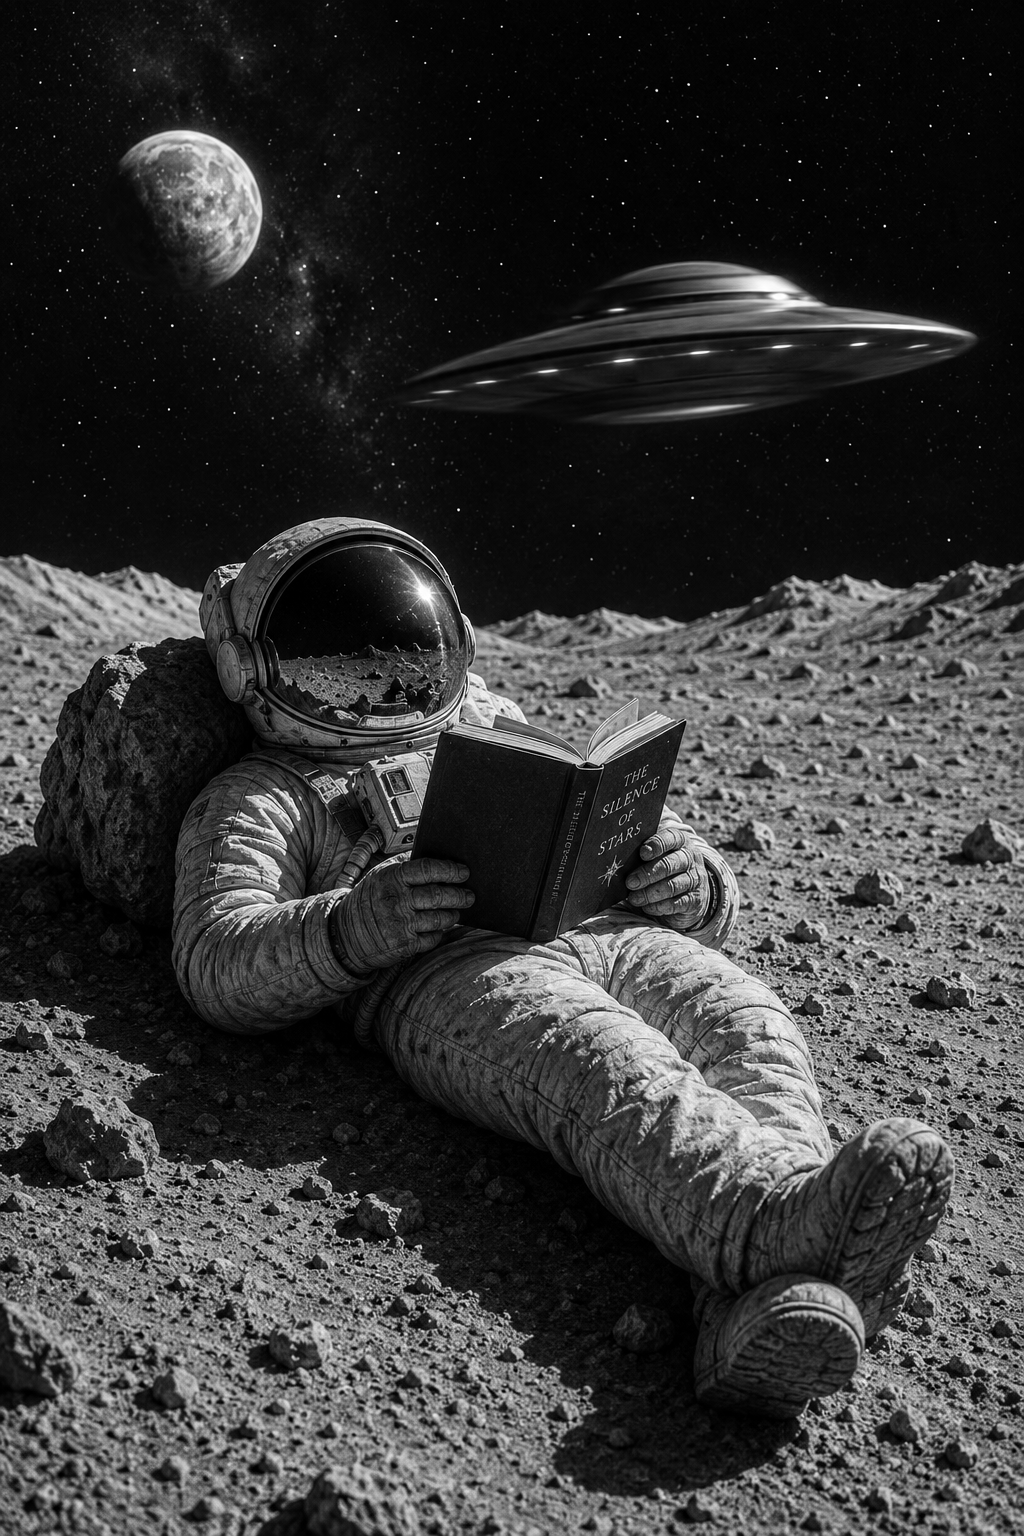
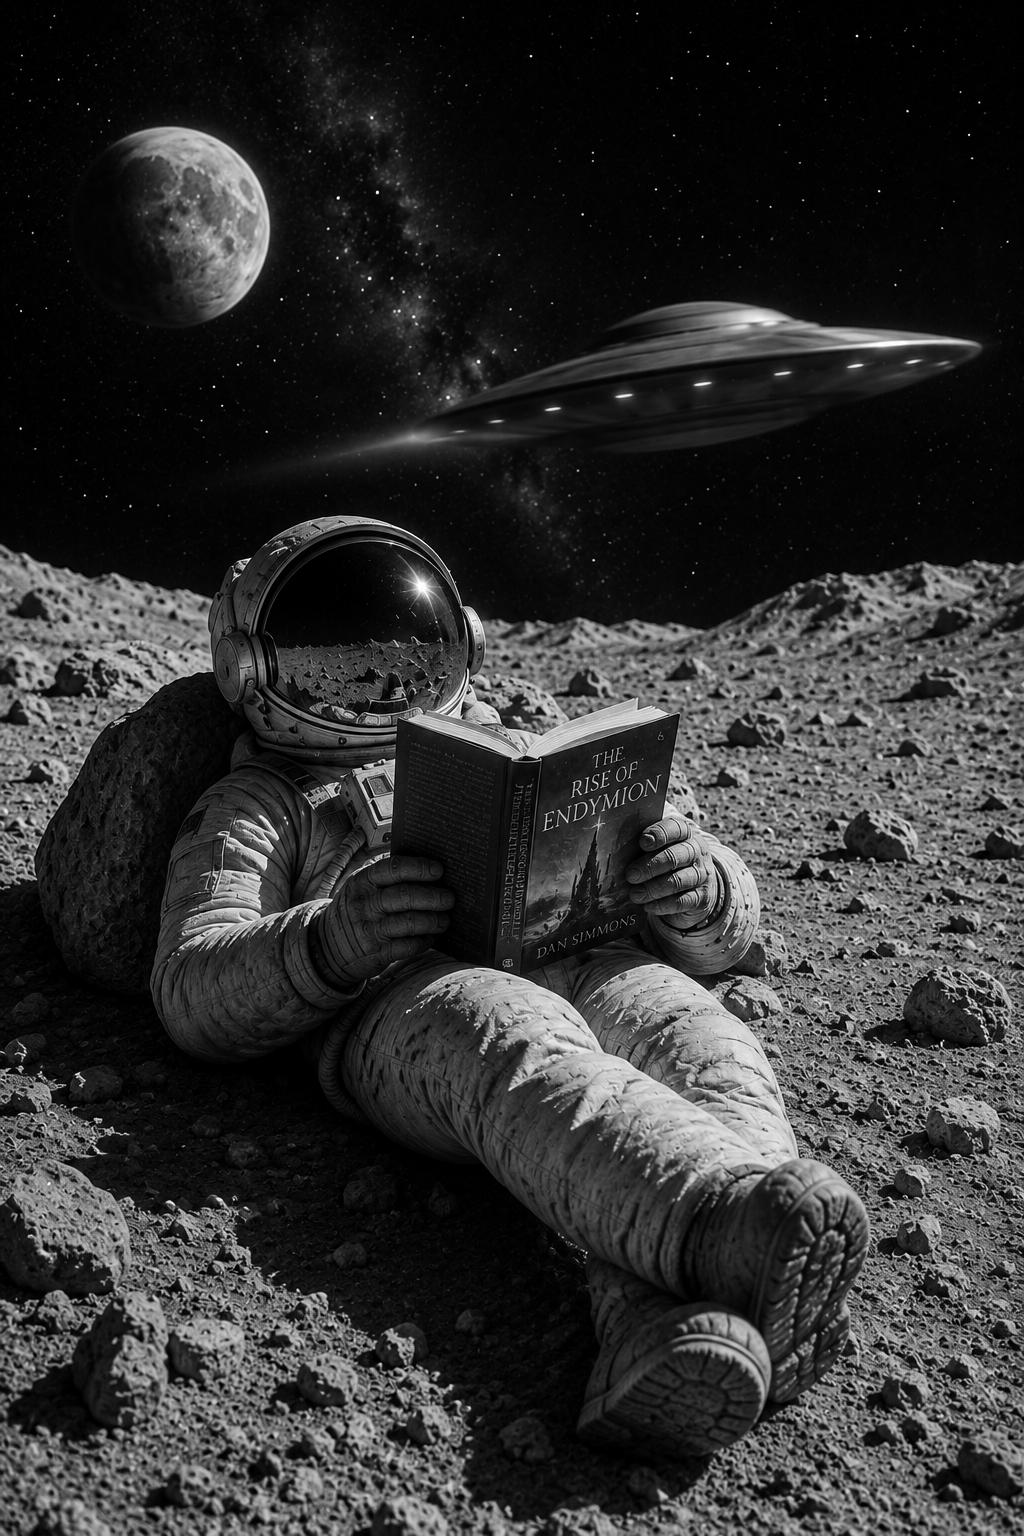
Swap the sample, and mark the wallpaper path device-confirmed
The sample is now the astronaut reading Dan Simmons' The Rise of Endymion,
which is the picture actually photographed on the panel and a better thing for
a reader's sleep screen to be. Same treatment as before: stored greyscale, 881
KB instead of 2802, 1024x1536 so it still exercises the downscale path.

And the status it had been waiting for. An X3 drew that wallpaper as its sleep
screen, converted and pushed from tgbot/ over WiFi with no terminal in the loop:
reader found by name, /.sleep created and filled, mode switched to Custom.

Worth keeping the route in the SKILL rather than just the verdict, because two
of the three attempts were wrong and only the panel said so. Plain
Floyd-Steinberg laid a lattice over any large flat area. Letting the reader
quantise came back too bright, which turned out to be the firmware running
X4-tuned constants on an X3. Quantising here with the firmware's algorithm and
its own disabled even constants is the one in the photograph.

The mat stays inferred: every source photographed so far filled the panel, so no
border of any style has been on the glass yet.

Claude-Session: https://claude.ai/code/session_01HTxLjgiWMSg5eebYr3ds1e

diff --git a/wallpaper-maker/SKILL.md b/wallpaper-maker/SKILL.md
@@ -373,29 +373,26 @@ own edge), an alpha image (must flatten onto white, not multiply to black), a
 phone-style EXIF rotation (must rotate before cropping), and a flat gradient
 (where dithering either works or bands visibly).
 
-**Status: device-confirmed (2026-08).** An X3 on WiFi took wallpapers built
-here, over the file-transfer web server, and drew them as its sleep screen. The
-whole delivery path went with it: the reader was found at `crosspoint.local`
-with no `--ip` needed, `/.sleep` was created and filled, and the sleep-screen
-mode switched to Custom on its own. Every rule above was read from the
-CrossPoint firmware (tag 1.5.0 and master @ 2026-08, byte-identical for all of
-it) and is enforced by the gate; the end-to-end claim is now evidence rather
-than inference.
+**Status: device-confirmed (2026-08), end to end.** An X3 drew a wallpaper built
+here as its sleep screen, quantised with the tuning below, converted and pushed
+from `tgbot/` over WiFi without a terminal touching it. The reader was found by
+name, `/.sleep` created and filled, the mode switched to Custom.
 
-**The tuning is device-confirmed too (2026-08):** a wallpaper quantised with
-the firmware's live X4 constants was drawn on an X3 and was plainly too bright,
-which is what sent us to the disabled even branch. So the choice of constants
-rests on the panel, not on reading. What has *not* been photographed yet is the
-even-branch output itself — expected to be right, since it is what the too-bright
-run was measured against, but not yet seen on the glass.
+The route there is worth keeping, because two of the three steps were wrong at
+some point and only the panel said so:
 
-**The mat is the other exception, and stays inferred.** Every source in that
-run filled the panel, so nothing was framed — no `--mat waves`, `edges`, `blur`
-or `none` border has been seen on the panel yet. The gate covers it (flat
-sectors decode flat, no hole goes unpainted), and there is no reason to expect
-trouble, since a matted wallpaper is the same 528x792 file as any other as far
-as the firmware is concerned. It simply has not been photographed.
-Feeding it something under ~350px wide is all it would take.
+- the first version dithered here with plain Floyd-Steinberg and laid a visible
+  **lattice** over any large flat area — a night sky found it;
+- the second let the reader quantise and came back **too bright**, which turned
+  out to be the firmware running its X4-tuned constants on an X3;
+- the third — quantising here with the firmware's algorithm and its own
+  disabled even constants — is the one in the photograph, and it is right.
+
+**Still inferred: the mat.** Every source photographed so far filled the panel,
+so no `--mat waves`, `edges`, `blur` or `none` border has been on the glass.
+The gate covers it and a matted wallpaper is the same file shape as any other,
+so there is no reason to expect trouble — it simply has not been seen. Anything
+under about 350px wide would settle it.
 
 ## Files
 

diff --git a/README.md b/README.md
@@ -40,7 +40,7 @@ This is a suite of tools. You'll find:
   to **WenKai**, the Chinese font that makes CrossPoint render hanzi properly,
   plus whatever else I end up adding.
 - **`workspace/`** — one folder per book, inputs and `build/` outputs. **Yours:**
-  gitignored apart from two committed samples, so your books stay your books.
+  gitignored apart from a few committed samples, so your books stay your books.
 
 Each directory has a **`SKILL.md`** that is its real documentation. This guide
 tells you what a thing is for and how to run it; `SKILL.md` tells you how it
@@ -223,10 +223,12 @@ Docs: [`opds-server/SKILL.md`](opds-server/SKILL.md)
 
 ## 7. The sleep screen
 
-**Tested:** device-confirmed, 2026-08 — an X3 took wallpapers built here over
-WiFi and drew them as its sleep screen, reader found by name with no address
-given. The one part still unseen on the panel is the *mat*, since every image
-in that run was big enough to fill the screen and never got framed.
+**Tested:** device-confirmed, 2026-08 — an X3 drew a wallpaper built here as
+its sleep screen, converted and pushed from the Telegram bot without a terminal
+in the loop. Two earlier versions were wrong in ways only the panel revealed (a
+dither lattice, then an over-bright render), so the current one is confirmed
+rather than reasoned. The part still unseen is the *mat*: every image
+photographed so far filled the screen and never got framed.
 
 Drop pictures in `workspace/wallpapers/`, run one command, and they're files
 the reader can draw. Run the second and they're on it. One sample ships with

diff --git a/reference/readers.md b/reference/readers.md
@@ -136,11 +136,12 @@ rule at 480px width (`prepare.py`).
 `lib/GfxRenderer/Bitmap.cpp`, `lib/GfxRenderer/BitmapHelpers.cpp`,
 `lib/FsHelpers/FsHelpers.cpp`), tags 1.5.0 and master @ 2026-08 — byte-identical
 for all of it apart from the quick-resume refresh mode, which does not touch
-this path. **Device-confirmed 2026-08:** an X3 drew wallpapers built by
-`wallpaper-maker/` as its sleep screen, from `/.sleep`, with the mode set to
-Custom. Panel-sized 4-bpp files only so far — an image small enough to be
-matted has not been put on the panel yet, so the placement rules for an
-under-size image remain read-from-source.* `wallpaper-maker/` builds these and
+this path. **Device-confirmed 2026-08:** an X3 drew a wallpaper built by
+`wallpaper-maker/` as its sleep screen, from `/.sleep`, mode Custom, quantised
+off-device against the even ramp — the render is correct on the glass, which is
+also what settled the tuning question below. Panel-sized files only so far: an
+image small enough to be matted has not been put on the panel, so the placement
+rules for an under-size image remain read-from-source.* `wallpaper-maker/` builds these and
 pushes them.
 
 | What | Requirement |
